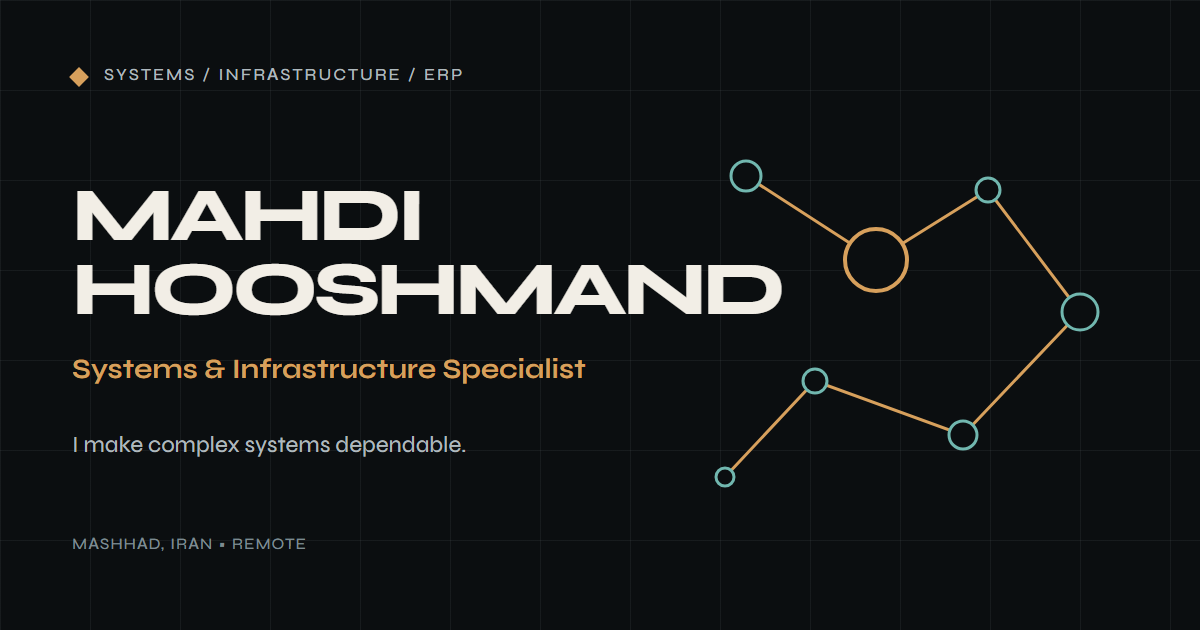
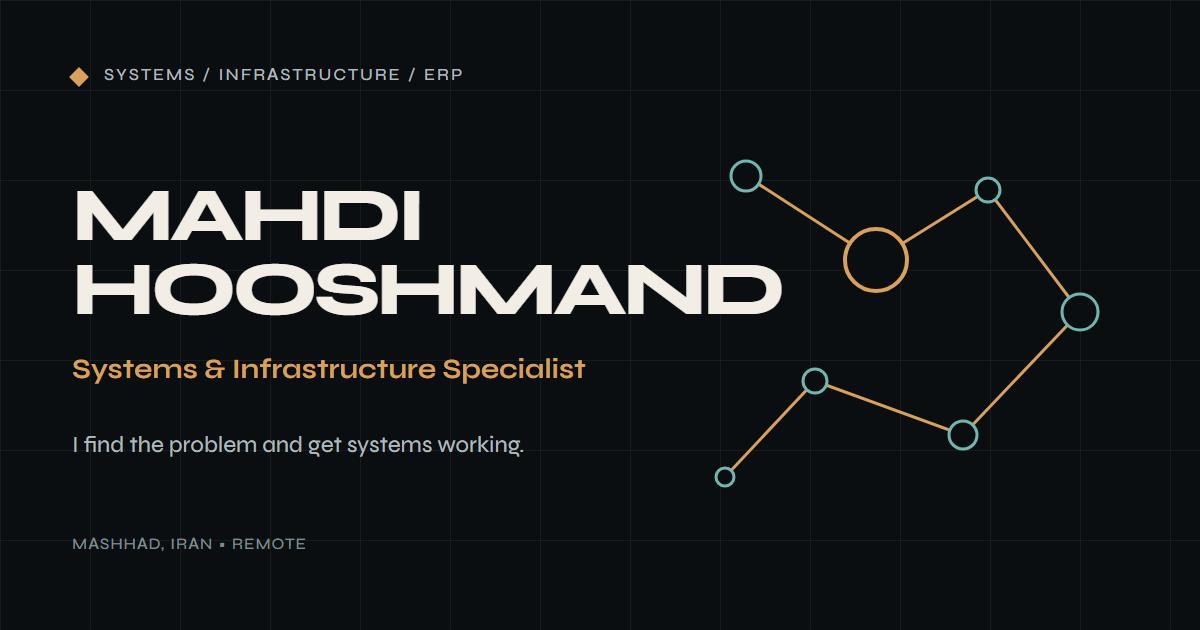
fix: make Persian portfolio copy natural

Changed region(s): [[0.0617, 0.6937, 0.4317, 0.7238]]

diff --git a/src/data/portfolio.ts b/src/data/portfolio.ts
@@ -146,7 +146,7 @@ export const portfolio: Record<Locale, PortfolioContent> = {
       discipline: 'Systems · Infrastructure · ERP',
       name: 'Mahdi Hooshmand',
       title: 'Systems & Infrastructure Specialist',
-      statement: 'I make complex systems dependable.',
+      statement: 'I find the problem and get systems working.',
       introduction:
         'Experience spanning infrastructure roles since 2019—supporting business-critical servers, VMware environments, VoIP platforms, Odoo workflows, and the people who rely on them.',
     },
@@ -369,13 +369,13 @@ export const portfolio: Record<Locale, PortfolioContent> = {
     meta: {
       title: 'مهدی هوشمند — متخصص سیستم و زیرساخت',
       description:
-        'متخصص سیستم و زیرساخت در مشهد با سابقه فعالیت از سال ۱۳۹۸ در شبکه، مجازیسازی، ویپ، اودوو و خودکارسازی عملیات فناوری اطلاعات.',
+        'متخصص سیستم و زیرساخت در مشهد با سابقه کار از سال ۱۳۹۸ در شبکه، مجازیسازی، VoIP، Odoo و خودکارسازی کارهای تکراری.',
       image: '/og/portfolio-fa.png',
     },
     navigation: [
-      { href: '#case-studies', label: 'مطالعات موردی' },
+      { href: '#case-studies', label: 'نمونهکارها' },
       { href: '#experience', label: 'سوابق' },
-      { href: '#capabilities', label: 'توانمندیها' },
+      { href: '#capabilities', label: 'مهارتها' },
       { href: '#projects', label: 'پروژهها' },
       { href: '#contact', label: 'ارتباط' },
     ],
@@ -385,11 +385,11 @@ export const portfolio: Record<Locale, PortfolioContent> = {
       closeMenu: 'بستن منو',
       switchLanguage: 'تغییر زبان',
       otherLanguage: 'English',
-      viewCaseStudies: 'مشاهده مطالعات موردی',
+      viewCaseStudies: 'دیدن نمونهکارها',
       downloadCv: 'دریافت رزومه انگلیسی',
       openProject: 'مشاهده در گیتهاب',
       currentPage: 'زبان فعلی',
-      available: 'آماده همکاری بهصورت دورکار',
+      available: 'برای همکاری دورکار در دسترس هستم',
       copied: 'ایمیل کپی شد',
     },
     hero: {
@@ -397,114 +397,114 @@ export const portfolio: Record<Locale, PortfolioContent> = {
       discipline: 'سیستم · زیرساخت · ERP',
       name: 'مهدی هوشمند',
       title: 'متخصص سیستم و زیرساخت',
-      statement: 'سیستمهای پیچیده را قابلاعتماد میکنم.',
+      statement: 'مشکل را پیدا میکنم و سیستم را به کار برمیگردانم.',
       introduction:
-        'از سال ۱۳۹۸ در نقشهای زیرساختی فعالیت کردهام؛ از پشتیبانی سرورهای حیاتی و محیطهای VMware تا سامانههای VoIP، فرایندهای Odoo و کاربرانی که هر روز به این سرویسها وابستهاند.',
+        'از سال ۱۳۹۸ در حوزه زیرساخت کار کردهام؛ از سرور و VMware تا VoIP و Odoo. تمرکزم روی عیبیابی، پایداری سرویس و حل مشکل کاربران بوده است.',
     },
     metrics: [
-      { value: '۵۰۰', label: 'کاربر در بزرگترین محیط ERP تحت پشتیبانی' },
-      { value: '+۲۰۰', label: 'محیط مشتری روی پلتفرم مرکز تماس ابری' },
-      { value: '+۲۰', label: 'سرور لینوکس و ویندوز تحت نگهداری' },
-      { value: '۶–۷', label: 'درخواست پیچیده حلشده در یک روز کاری معمول' },
+      { value: '۵۰۰', label: 'کاربر در بزرگترین محیط ERP که پشتیبانی کردهام' },
+      { value: 'بیش از ۲۰۰', label: 'محیط مشتری در سرویس مرکز تماس ابری' },
+      { value: 'بیش از ۲۰', label: 'سرور Linux و Windows تحت پشتیبانی' },
+      { value: '۶–۷', label: 'درخواست پیچیده در یک روز کاری معمول' },
     ],
     sectionCopy: {
       caseStudies: {
-        eyebrow: 'عملیات منتخب',
-        title: 'بهبود سیستمها در محدودیتهای واقعی.',
+        eyebrow: 'نمونههای کاری',
+        title: 'چند نمونه از کار واقعی',
         description:
-          'روایتهای ناشناس از پروژههای ERP، ارتباطات و مجازیسازی؛ با تمرکز بر تصمیمها، مقیاس و اثر عملیاتی.',
+          'نام شرکتها حذف شده، اما مقیاس، ابزار و نتیجه هر کار مشخص است.',
       },
       experience: {
         eyebrow: 'مسیر حرفهای',
-        title: 'از پشتیبانی خط مقدم تا سیستمهای حیاتی کسبوکار.',
-        description: 'مسیری در پشتیبانی، شبکه، زیرساخت صوت، پایگاه داده و عملیات ERP.',
+        title: 'از Helpdesk تا زیرساخت و ERP',
+        description: 'تجربه کاری من از پشتیبانی کاربران شروع شد و به شبکه، VoIP، پایگاه داده و Odoo رسید.',
       },
       capabilities: {
-        eyebrow: 'دامنه فنی',
-        title: 'تخصص زیرساخت با محوریت عیبیابی.',
+        eyebrow: 'مهارتهای فنی',
+        title: 'ابزارها و حوزههای کاری من',
         description:
-          'ابزارها مهماند، اما توانایی اصلی من بررسی رفتار سیستم در لایههای مختلف و تحویل محیطی سادهتر برای بهرهبرداری است.',
+          'ابزارها بخشی از کارند؛ مهارت اصلی من پیدا کردن مشکل بین لایههای مختلف و سادهتر کردن نگهداری سیستم است.',
       },
       projects: {
-        eyebrow: 'پروژههای مستقل',
-        title: 'یادگیری با ساخت و تحویل محصول واقعی.',
+        eyebrow: 'پروژههای شخصی',
+        title: 'پروژههایی که ساختهام',
         description:
-          'پروژههایی که تجربه زیرساختی من را به معماری نرمافزار، API و خودکارسازی پیوند میدهند.',
+          'دو پروژه برای کار بیشتر با معماری نرمافزار، API و خودکارسازی در کنار تجربه زیرساختی.',
       },
-      credentials: { eyebrow: 'پشتوانه', title: 'تحصیلات، گواهینامه و زبانها.' },
+      credentials: { eyebrow: 'سوابق تکمیلی', title: 'تحصیلات، مدرک فنی و زبانها' },
       contact: {
-        eyebrow: 'سیستم بعدی',
-        title: 'به کسی نیاز دارید که مسئله را از ابتدا تا انتها دنبال کند؟',
+        eyebrow: 'همکاری',
+        title: 'برای همکاری صحبت کنیم',
         description:
-          'برای موقعیتهای دورکار سیستم و زیرساخت که در آن عیبیابی دقیق، عملیات پایدار و ارتباط روشن اهمیت دارد آماده همکاری هستم.',
+          'برای موقعیتهای دورکار سیستم و زیرساخت در دسترس هستم؛ بهویژه جایی که عیبیابی دقیق، پایداری سرویس و ارتباط روشن مهم باشد.',
       },
     },
-    caseLabels: { challenge: 'محدودیت', action: 'راهکار', outcome: 'نتیجه' },
+    caseLabels: { challenge: 'مسئله', action: 'کاری که انجام دادم', outcome: 'نتیجه' },
     caseStudies: [
       {
         id: 'erp-operations',
-        category: 'عملیات ERP',
-        title: 'پیادهسازی فرایند تأیید پیچیده بدون توسعه ماژول اختصاصی.',
+        category: 'Odoo و ERP',
+        title: 'فرایند تایید انتقال انبار را بدون ماژول اختصاصی پیاده کردم',
         summary:
-          'پشتیبانی و شخصیسازی Odoo 15/17 برای محیطهایی از تیمهای کوچک تا استقرار حیاتی با حدود ۵۰۰ کاربر.',
+          'چند محیط Odoo 15 و 17 را پشتیبانی و شخصیسازی کردم؛ از تیمهای کوچک تا یک مجموعه با حدود ۵۰۰ کاربر.',
         challenge:
-          'انتقال بین انبارها به تأیید جداگانه فرستنده و گیرنده نیاز داشت و جابهجایی غیرمجاز باید در هر مرحله کنترل میشد.',
+          'انتقال بین انبارها باید جداگانه به تایید فرستنده و گیرنده میرسید تا جابهجایی بدون مجوز در هر مرحله متوقف شود.',
         action:
-          'فرمها، فیلدها، گزارشها، خودکارسازی، سطح دسترسی و فرایند تأیید دومرحلهای را بهطور کامل با Odoo Studio طراحی کردم.',
+          'فرمها، فیلدها، گزارشها، خودکارسازیها، سطح دسترسی و تایید دومرحلهای را فقط با Odoo Studio ساختم.',
         outcome:
-          'نیاز عملیاتی بدون ماژول سفارشی مورد انتظار تحویل شد؛ همزمان روزانه ۶ تا ۷ درخواست پشتیبانی پیچیده نیز رسیدگی میشد.',
+          'فرایند موردنیاز بدون ساخت ماژول اختصاصی اجرا شد؛ در کنار این کار، روزانه ۶ تا ۷ درخواست پیچیده پشتیبانی را هم حل میکردم.',
         metric: { value: 'حدود ۵۰۰', label: 'کاربر در بزرگترین محیط تحت پشتیبانی' },
         technologies: ['Odoo 15/17', 'Odoo Studio', 'SQL', 'CRM', 'Access Control'],
       },
       {
         id: 'call-center-platform',
-        category: 'زیرساخت صوت',
-        title: 'حفظ آمادگی یک پلتفرم چندمشتری برای رشد مداوم.',
+        category: 'زیرساخت مرکز تماس',
+        title: 'از زیرساخت مرکز تماس با بیش از ۲۰۰ محیط مشتری پشتیبانی کردم',
         summary:
-          'پشتیبانی از لایههای VMware، لینوکس، ویندوز و Asterisk در یک پلتفرم ارتباطی میزبانیشده.',
+          'این سرویس مرکز تماس ابری روی VMware، Linux، Windows و Asterisk اجرا میشد.',
         challenge:
-          'بیش از ۲۰۰ محیط مستقل مشتری به پایداری سرویسهای صوت، شبکه و ماشینهای مجازی وابسته بودند.',
+          'بیش از ۲۰۰ محیط جداگانه مشتری به سرویس صوت، شبکه و ماشینهای مجازی وابسته بودند.',
         action:
-          'سرویسها را پایش، ماشینهای مجازی را آماده و مسیر تماس را نگهداری کردم و خطاها را میان VMware، Asterisk، MikroTik و Cisco ردیابی کردم.',
+          'سرویسها را پایش میکردم، ماشین مجازی میساختم، مسیرهای تماس را نگهداری میکردم و مشکلها را بین VMware، Asterisk، MikroTik و Cisco دنبال میکردم.',
         outcome:
-          'عملیات روزمره و افزایش ظرفیت پلتفرم حفظ شد و استقرارهای هتل، مجتمع مسکونی و مراکز خدماتی پشتیبانی شدند.',
-        metric: { value: '+۲۰۰', label: 'محیط مشتری تحت پشتیبانی' },
+          'سرویس روزانه پایدار ماند و ظرفیت لازم برای مشتریهای جدید هم فراهم شد؛ همزمان از استقرار در هتلها، مجتمعهای مسکونی و مراکز خدماتی پشتیبانی کردم.',
+        metric: { value: 'بیش از ۲۰۰', label: 'محیط مشتری تحت پشتیبانی' },
         technologies: ['VMware', 'Asterisk', 'Issabel', 'SIP', 'MikroTik', 'Cisco'],
       },
       {
         id: 'virtualization',
         category: 'مجازیسازی',
-        title: 'تجمیع سرورهای فیزیکی در یک محیط مجازی قابلمدیریت.',
+        title: 'شش سرور فیزیکی را به حدود هشت ماشین مجازی منتقل کردم',
         summary:
-          'انتقال بارهای کاری پراکنده به VMware ESXi برای سادهسازی عملیات زیرساخت.',
+          'سرویسهای پراکنده را به VMware ESXi منتقل کردم تا نگهداری زیرساخت سادهتر شود.',
         challenge:
-          'شش سرور فیزیکی هزینه نگهداری را افزایش داده و هماهنگی مدیریت بارهای کاری را دشوار کرده بود.',
+          'شش سرور فیزیکی نگهداری را سختتر کرده بودند و مدیریت سرویسها بین چند دستگاه پخش بود.',
         action:
-          'مهاجرت فیزیکی به مجازی را برنامهریزی، سرویسها را تجمیع و حدود هشت ماشین مجازی را در ESXi سازماندهی کردم.',
+          'برای مهاجرت P2V برنامهریزی کردم، سرویسها را جابهجا کردم و حدود هشت ماشین مجازی را در ESXi سامان دادم.',
         outcome:
-          'پراکندگی سختافزاری کاهش یافت و بستری شفافتر برای نگهداری، پایش و برنامه بازیابی متمرکز ایجاد شد.',
-        metric: { value: '۶ ← ۸', label: 'سرور فیزیکی تجمیعشده در ماشین مجازی' },
+          'تعداد سرورهای فیزیکی کمتر شد و نگهداری، پایش و برنامه بازیابی متمرکزتر شد.',
+        metric: { value: '۶ سرور', label: 'تبدیلشده به حدود ۸ ماشین مجازی' },
         technologies: ['VMware ESXi', 'P2V', 'Windows Server', 'Linux', 'Backup Planning'],
       },
     ],
     experience: [
       {
         id: 'erp-specialist',
-        period: 'آوریل ۲۰۲۴ — اکتبر ۲۰۲۵',
-        organization: 'شرکت راهکارهای ERP · نام محفوظ',
+        period: '2024/04 — 2025/10',
+        organization: 'شرکت راهکارهای ERP · نام شرکت منتشر نشده',
         role: 'کارشناس پشتیبانی نرمافزار و Odoo',
-        summary: 'مسئول پشتیبانی، شخصیسازی و راهنمایی کاربران در چندین محیط مشتری Odoo.',
+        summary: 'پشتیبانی و شخصیسازی چند محیط Odoo و راهنمایی کاربران را برعهده داشتم.',
         highlights: [
           'شخصیسازی فرایندهای انبار، فروش، خرید، حسابداری و CRM با Odoo Studio.',
-          'رسیدگی به مسائل نرمافزار، فرایند، دسترسی و پایگاه داده در استقرارهایی تا حدود ۵۰۰ کاربر.',
-          'تبدیل نیازهای عملیاتی به فرم، گزارش، خودکارسازی و سطح دسترسی قابلنگهداری.',
+          'مشکلهای نرمافزار، فرایند، دسترسی و پایگاه داده را در محیطهایی تا حدود ۵۰۰ کاربر حل میکردم.',
+          'نیازهای کاری را به فرم، گزارش، خودکارسازی و سطح دسترسی تبدیل میکردم.',
         ],
         technologies: ['Odoo', 'Odoo Studio', 'SQL', 'ERP Support'],
       },
       {
         id: 'financial-support',
-        period: 'ژوئن ۲۰۲۳ — مارس ۲۰۲۴',
-        organization: 'شرکت نرمافزار مالی · نام محفوظ',
+        period: '2023/06 — 2024/03',
+        organization: 'شرکت نرمافزار مالی · نام شرکت منتشر نشده',
         role: 'کارشناس پشتیبانی فنی',
         summary: 'عیبیابی نرمافزار مالی، ویندوز و SQL Server در محیطهای مشتری.',
         highlights: [
@@ -515,10 +515,10 @@ export const portfolio: Record<Locale, PortfolioContent> = {
       },
       {
         id: 'voip-network',
-        period: 'ژانویه ۲۰۲۰ — ژوئیه ۲۰۲۱',
-        organization: 'ارائهدهنده ارتباطات ابری · نام محفوظ',
+        period: '2020/01 — 2021/07',
+        organization: 'شرکت ارتباطات ابری · نام شرکت منتشر نشده',
         role: 'کارشناس پشتیبانی VoIP و شبکه',
-        summary: 'نگهداری سرورها، ماشینهای مجازی، شبکه و سرویس صوت برای یک پلتفرم مرکز تماس ابری.',
+        summary: 'سرور، ماشین مجازی، شبکه و سرویس صوت یک مرکز تماس ابری را نگهداری میکردم.',
         highlights: [
           'پشتیبانی از بیش از ۲۰ سرور لینوکس و ویندوز و بیش از ۲۰۰ محیط مشتری.',
           'پیکربندی Asterisk، Issabel، ترانک SIP، IVR، صف تماس و تجهیزات Grandstream.',
@@ -528,8 +528,8 @@ export const portfolio: Record<Locale, PortfolioContent> = {
       },
       {
         id: 'helpdesk',
-        period: 'نوامبر ۲۰۱۹ — ژوئیه ۲۰۲۰',
-        organization: 'شرکت خدمات فناوری اطلاعات · نام محفوظ',
+        period: '2019/11 — 2020/07',
+        organization: 'شرکت خدمات فناوری اطلاعات · نام شرکت منتشر نشده',
         role: 'کارشناس Helpdesk',
         summary: 'پشتیبانی کاربران در سیستمهای ویندوز، سختافزار، نرمافزار و اتصال شبکه.',
         highlights: [
@@ -542,12 +542,12 @@ export const portfolio: Record<Locale, PortfolioContent> = {
     capabilities: [
       {
         title: 'سیستم و مجازیسازی',
-        description: 'بهرهبرداری از محیطهای ترکیبی سرور و کاهش پیچیدگی زیرساخت.',
+        description: 'نگهداری محیطهای ترکیبی سرور و سادهتر کردن زیرساخت.',
         technologies: ['Linux', 'Windows Server', 'VMware ESXi', 'Docker', 'Virtual Machines'],
       },
       {
         title: 'شبکه',
-        description: 'ردیابی مسائل اتصال و تفکیک شبکه از کاربر نهایی تا لبه شبکه.',
+        description: 'پیدا کردن مشکلهای اتصال و شبکه، از سیستم کاربر تا تجهیزات لبه.',
         technologies: ['MikroTik', 'Cisco', 'VLAN', 'NAT', 'Firewall', 'VPN', 'LAN/WAN'],
       },
       {
@@ -557,7 +557,7 @@ export const portfolio: Record<Locale, PortfolioContent> = {
       },
       {
         title: 'ERP و عملیات',
-        description: 'تبدیل قواعد کسبوکار به فرایند و سطح دسترسی قابلنگهداری.',
+        description: 'تبدیل قواعد کسبوکار به فرایند و دسترسیهایی که نگهداریشان ساده باشد.',
         technologies: ['Odoo 15/17', 'Odoo Studio', 'CRM', 'Inventory', 'Sales', 'Accounting'],
       },
       {
@@ -569,17 +569,17 @@ export const portfolio: Record<Locale, PortfolioContent> = {
     projects: [
       {
         title: 'VideoNest',
-        type: 'پلتفرم رسانهای Self-hosted',
+        type: 'کتابخانه ویدیویی روی سرور شخصی',
         description:
-          'کتابخانه ویدیویی محلی با API نوشتهشده با Go، رابط React، پایگاه داده SQLite، پردازش FFmpeg، استقرار Docker و پخش مبتنی بر HTTP Range.',
+          'یک کتابخانه ویدیویی محلی با API در Go، رابط React، پایگاه داده SQLite، پردازش FFmpeg، استقرار Docker و پخش HTTP Range.',
         url: 'https://github.com/mahdim43/videonest-go',
         technologies: ['Go', 'React', 'TypeScript', 'Docker', 'SQLite', 'FFmpeg'],
       },
       {
         title: 'Idea Expander',
-        type: 'گردش کار هوش مصنوعی دوزبانه',
+        type: 'گردش کار دوزبانه با هوش مصنوعی',
         description:
-          'ابزاری دوزبانه و مشارکتی که یک ورودی اولیه را طی فرایندی ساختاریافته به مجموعهای رتبهبندیشده و نقدشده از ایدههای محصول تبدیل میکند.',
+          'ابزاری دوزبانه برای گسترش یک ایده اولیه که خروجیها را دستهبندی، رتبهبندی و نقد میکند.',
         url: 'https://github.com/mahdim43/idea-expander',
         technologies: ['AI Workflows', 'Prompt Design', 'English / Persian', 'Collaboration'],
       },
@@ -588,8 +588,8 @@ export const portfolio: Record<Locale, PortfolioContent> = {
       education: {
         label: 'تحصیلات',
         title: 'کاردانی مهندسی نرمافزار',
-        detail: 'دانشگاه آزاد اسلامی، مشهد',
-        period: '۱۴۰۰ — ۱۴۰۲',
+        detail: 'دانشگاه ازاد اسلامی، مشهد',
+        period: '2021 — 2023',
       },
       certification: {
         label: 'گواهینامه',
@@ -600,12 +600,12 @@ export const portfolio: Record<Locale, PortfolioContent> = {
     },
     contact: {
       location: 'مشهد، ایران',
-      availability: 'آماده همکاری دورکار در حوزه سیستم و زیرساخت',
+      availability: 'برای همکاری دورکار در حوزه سیستم و زیرساخت در دسترس هستم',
       email: shared.email,
       github: shared.github,
       linkedin: shared.linkedin,
     },
-    footer: 'طراحیشده بر پایه سیستم، شواهد و ارتباط روشن.',
+    footer: 'مهدی هوشمند · سیستم و زیرساخت',
   },
 };
 

diff --git a/tests/portfolio.spec.ts b/tests/portfolio.spec.ts
@@ -52,6 +52,17 @@ test('public pages omit private and stale employment data', async ({ page }) => 
   }
 });
 
+test('Persian copy avoids prohibited Arabic letter forms', async ({ page }) => {
+  await page.goto('/fa/');
+  expect(await page.content()).not.toMatch(/[\u0622\u0623]/u);
+});
+
+test('Persian topology keeps Latin SVG labels isolated from RTL', async ({ page }) => {
+  await page.goto('/fa/');
+  await expect(page.locator('.topology svg')).toHaveCSS('direction', 'ltr');
+  await expect(page.locator('.node text').first()).toHaveCSS('direction', 'ltr');
+});
+
 test('language switch preserves the active section hash', async ({ page }) => {
   await page.goto('/#projects');
   await page.locator('[data-language-switch]').click();
